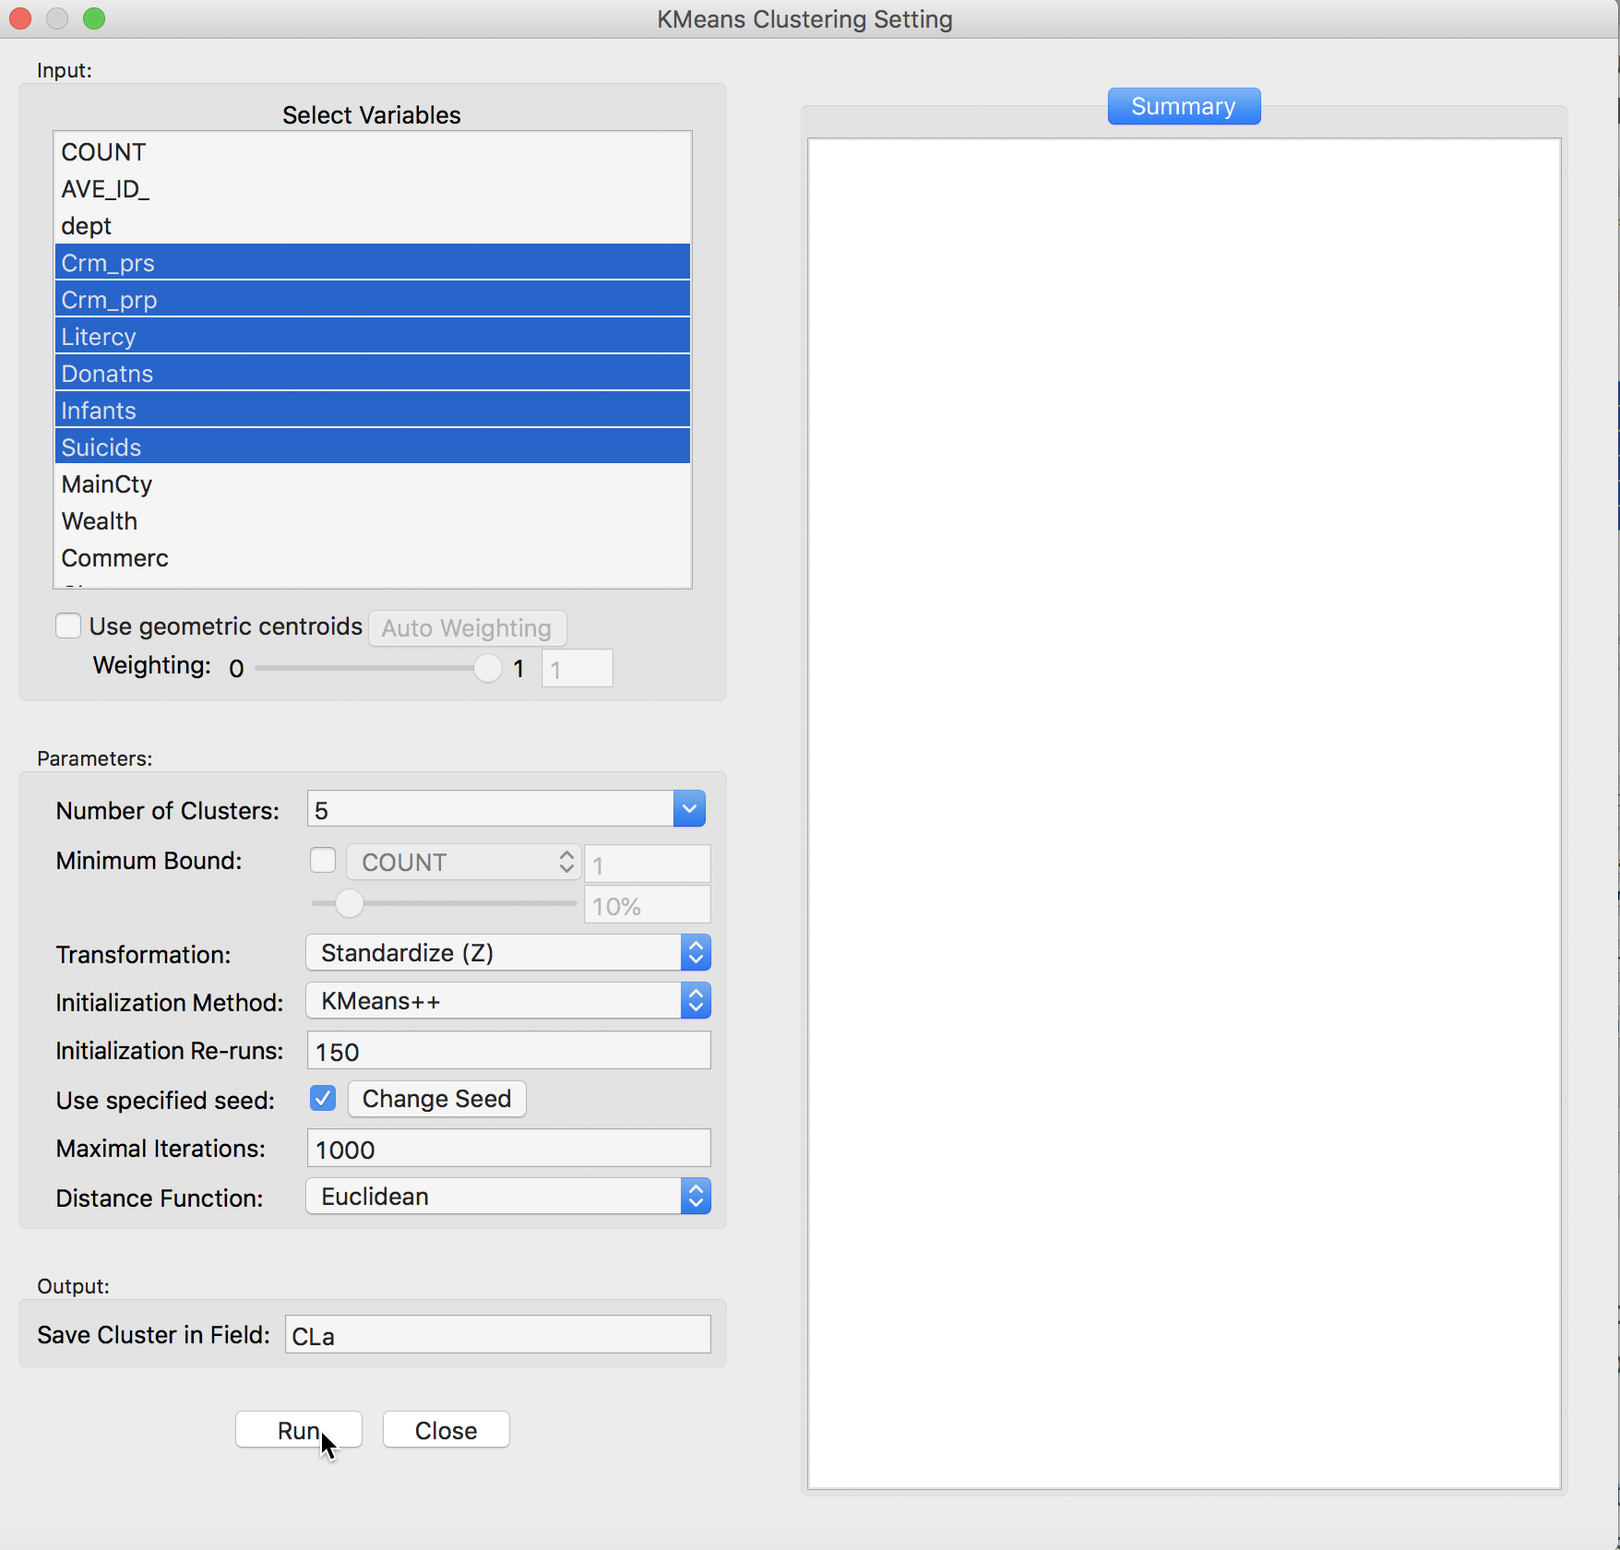
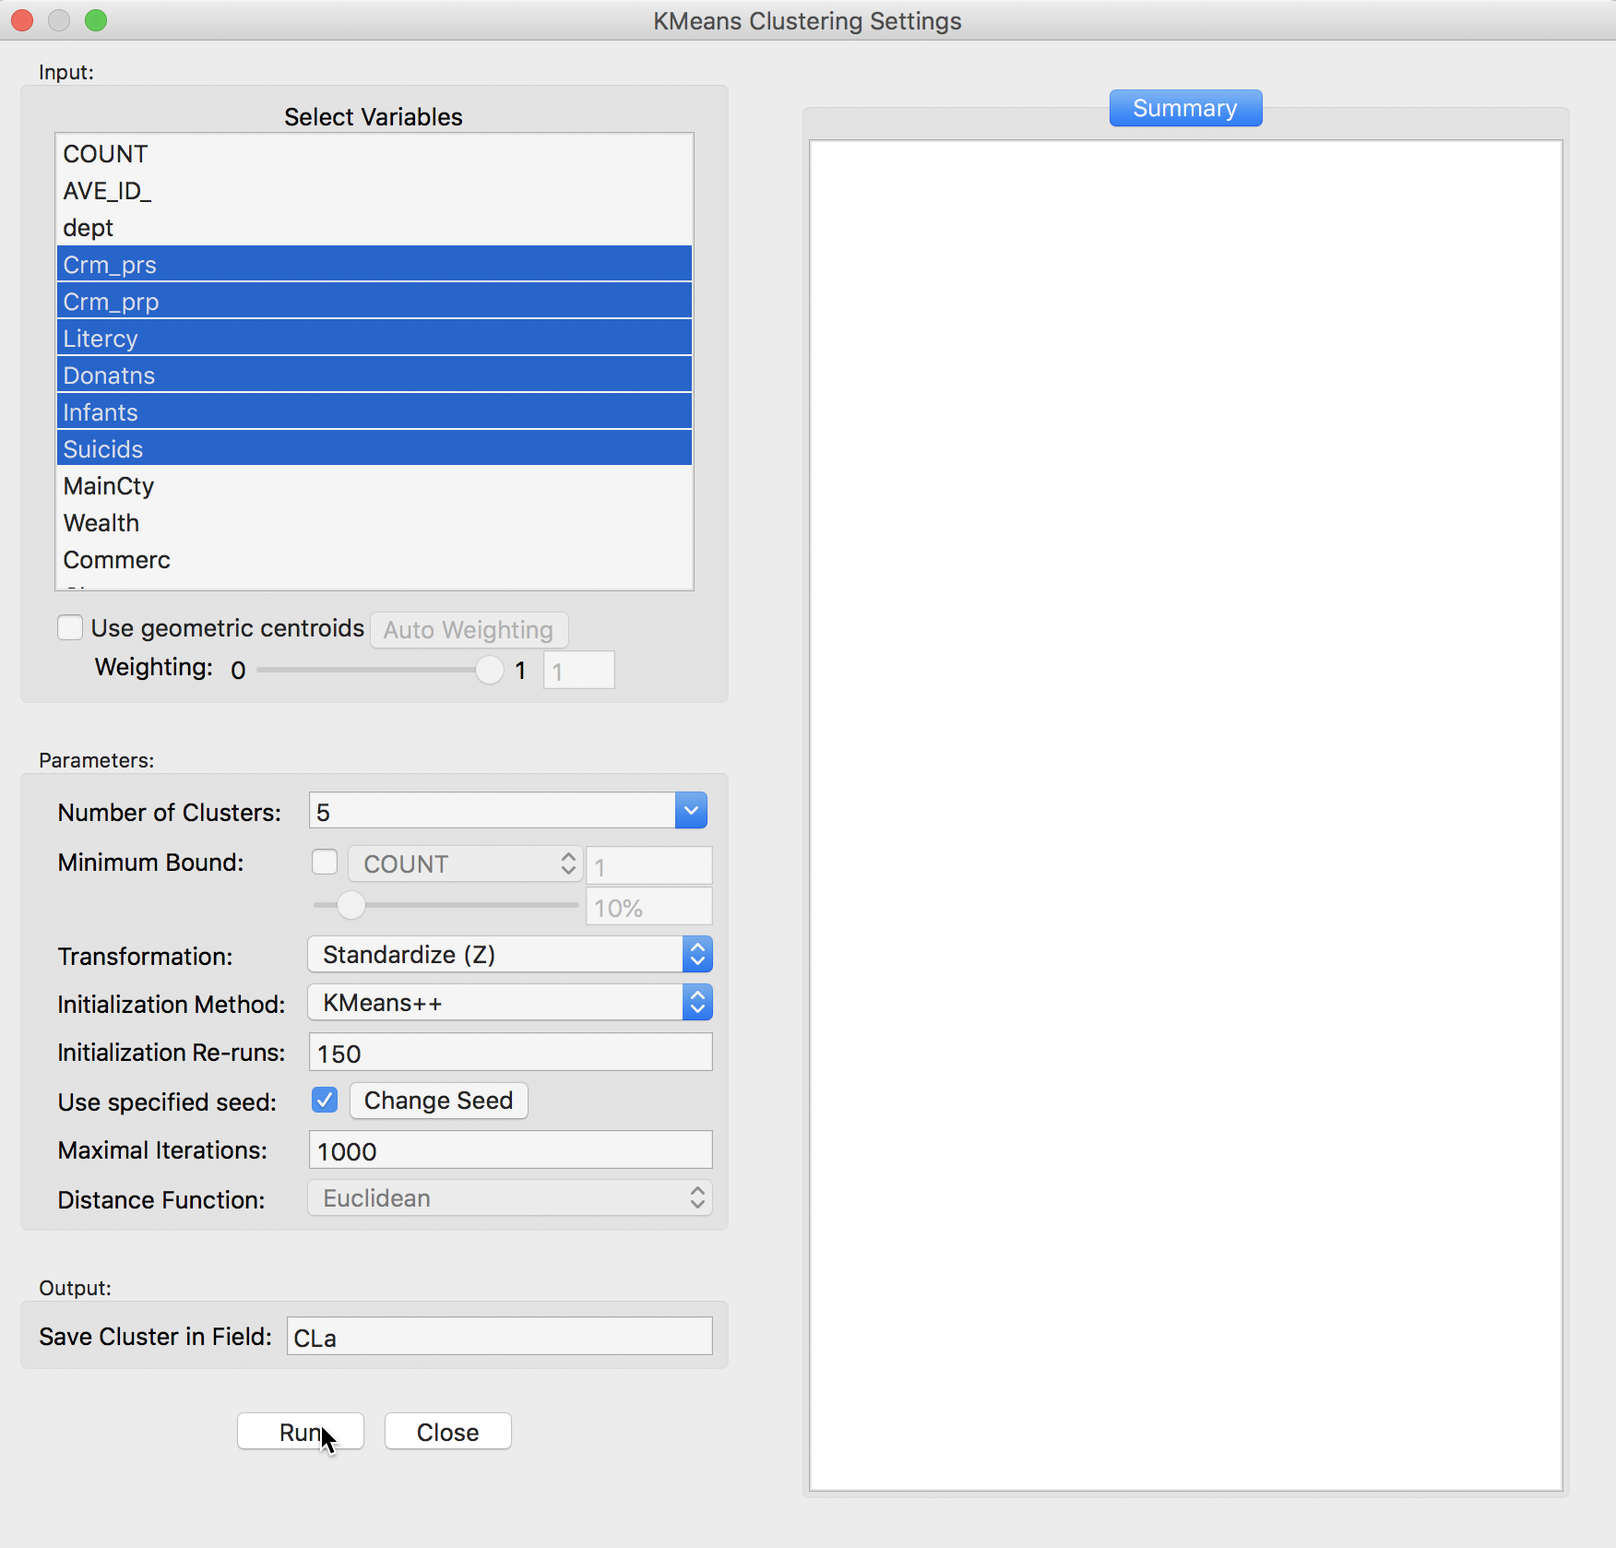
manhattan distance for hierarchical clustering

diff --git a/workbook/7b_clusters_2/lab7b.html b/workbook/7b_clusters_2/lab7b.html
@@ -116,7 +116,7 @@ if (window.hljs) {
 <h1 class="title toc-ignore">Cluster Analysis (2)</h1>
 <h3 class="subtitle"><em>Classic Clustering Methods</em></h3>
 <h4 class="author"><em>Luc Anselin<a href="#fn1" class="footnote-ref" id="fnref1"><sup>1</sup></a></em></h4>
-<h4 class="date"><em>Latest update 11/11/2018</em></h4>
+<h4 class="date"><em>Latest update 11/14/2018</em></h4>
 
 
 <div id="TOC">
@@ -137,7 +137,6 @@ if (window.hljs) {
 <li><a href="#options-and-sensitivity-analysis">Options and sensitivity analysis</a><ul>
 <li><a href="#changing-the-number-of-initial-runs-in-k-means">Changing the number of initial runs in k-means++</a></li>
 <li><a href="#random-initialization">Random initialization</a></li>
-<li><a href="#distance-metric">Distance metric</a></li>
 </ul></li>
 </ul></li>
 <li><a href="#hierarchical-clustering">Hierarchical Clustering</a><ul>
@@ -154,6 +153,7 @@ if (window.hljs) {
 <li><a href="#single-linkage">Single linkage</a></li>
 <li><a href="#complete-linkage">Complete linkage</a></li>
 <li><a href="#average-linkage">Average linkage</a></li>
+<li><a href="#distance-metric">Distance metric</a></li>
 </ul></li>
 </ul></li>
 <li><a href="#references">References</a></li>
@@ -301,7 +301,9 @@ deviational units,<a href="#fn3" class="footnote-ref" id="fnref3"><sup>3</sup></
 <p>The default algorithm is
 <strong>KMeans++</strong> with initialization re-runs set to 150 and maximal iterations to 1000.
 The <strong>seed</strong> is the global random number seed set for GeoDa, which can be changed by means of the
-<strong>Use specified seed</strong> option. Finally, the default <strong>Distance Function</strong> is <strong>Euclidean</strong>.</p>
+<strong>Use specified seed</strong> option. Finally, the default <strong>Distance Function</strong> is <strong>Euclidean</strong>.
+For k-means, this option cannot be changed, but for hierarchical clustering, there is also
+a <strong>Manhattan</strong> distance metric.</p>
 <p>The cluster classification will be
 saved in the variable specified in the <strong>Save Cluster in Field</strong> box. The default of <strong>CL</strong>
 is likely not very useful if several options will be explored. In our first example, we
@@ -454,37 +456,6 @@ as in Figure <a href="#fig:kppinitresults">13</a>. However, if we had run the ra
 much fewer runs (e.g., 10), the results would be inferior to what we obtained before.
 This highlights the effect of the starting values on the ultimate result.</p>
 </div>
-<div id="distance-metric" class="section level4 unnumbered">
-<h4>Distance metric</h4>
-<p>The default metric to gauge the distance between the center of each cluster is the
-Euclidean distance. In some context, it may be preferable to use absolute or Manhattan
-block distance, which penalizes larger distances less. This option can be selected
-through the <strong>Distance Function</strong> item in the dialog, as in Figure <a href="#fig:kmeansdist">15</a>.</p>
-<div class="figure" style="text-align: center"><span id="fig:kmeansdist"></span>
-<img src="pics7b/4_032_manhattan_distance.png" alt="Manhattan distance metric" width="40%" />
-<p class="caption">
-Figure 15: Manhattan distance metric
-</p>
-</div>
-<p>We run this with the default <strong>150</strong> initialization re-runs.
-The corresponding cluster map is shown in Figure <a href="#fig:mandistmap">16</a>, with the summary
-characteristics given in Figure <a href="#fig:mandistsummary">17</a>.</p>
-<div class="figure" style="text-align: center"><span id="fig:mandistmap"></span>
-<img src="pics7b/4_033_manhattan_map.png" alt="Manhattan distance cluster map" width="80%" />
-<p class="caption">
-Figure 16: Manhattan distance cluster map
-</p>
-</div>
-<div class="figure" style="text-align: center"><span id="fig:mandistsummary"></span>
-<img src="pics7b/4_034_manhattan_results.png" alt="Manhattan distance cluster characteristics" width="80%" />
-<p class="caption">
-Figure 17: Manhattan distance cluster characteristics
-</p>
-</div>
-<p>Relative to the Euclidean distance results, the ratio of between to total sum of squares
-is somewhat worse, at 0.455839. However, this is not a totally fair comparison, since the
-criterion for grouping is not based on a variance measure, but on an absolute difference.</p>
-</div>
 </div>
 </div>
 <div id="hierarchical-clustering" class="section level2 unnumbered">
@@ -523,21 +494,21 @@ linkage tends to result in many singletons and a few very large clusters.</p>
 <h3>Implementation</h3>
 <p>Hierarchical clustering is invoked in GeoDa from the same toolbar icon as k-means, shown
 in Figure <a href="#fig:kmeansicon">2</a>, by selecting the proper item from the drop down list. The desired clustering functionality can also be selected by using <strong>Clusters &gt; Hierarchical</strong> from the
-menu, as shown in Figure <a href="#fig:hierarchicalmenu">18</a>.</p>
+menu, as shown in Figure <a href="#fig:hierarchicalmenu">15</a>.</p>
 <div class="figure" style="text-align: center"><span id="fig:hierarchicalmenu"></span>
 <img src="pics7b/4_035_hierarchical.png" alt="Hierarchical clustering option" width="15%" />
 <p class="caption">
-Figure 18: Hierarchical clustering option
+Figure 15: Hierarchical clustering option
 </p>
 </div>
 <div id="variable-settings-panel-1" class="section level4 unnumbered">
 <h4>Variable Settings Panel</h4>
 <p>As before, the variables to be clustered are selected in the <strong>Variables Settings</strong> panel. We
-continue with the same six variables, shown in Figure <a href="#fig:hiervars">19</a>.</p>
+continue with the same six variables, shown in Figure <a href="#fig:hiervars">16</a>.</p>
 <div class="figure" style="text-align: center"><span id="fig:hiervars"></span>
 <img src="pics7b/5_048_hiervars.png" alt="K Means variable selection" width="40%" />
 <p class="caption">
-Figure 19: K Means variable selection
+Figure 16: K Means variable selection
 </p>
 </div>
 <p>The panel also allows one to set several options, such as the <strong>Transformation</strong> (default value
@@ -556,7 +527,7 @@ but this can be changed interactively (see below). Once a cut point is selected,
 cluster classification in the data table.</p>
 <div id="dendrogram" class="section level4 unnumbered">
 <h4>Dendrogram</h4>
-<p>With all options set to the default, the resulting dendrogram is as in Figure <a href="#fig:dendrogram5">20</a>.
+<p>With all options set to the default, the resulting dendrogram is as in Figure <a href="#fig:dendrogram5">17</a>.
 The dashed red line corresponds to a cut point that yields five clusters (the default). The
 dendrogram shows how individual observations are combined into groups of two, and subsequently
 into larger and larger groups, by combining pairs of clusters. The colors on the right hand
@@ -564,30 +535,30 @@ side match the colors of the observations in the cluster map (see next).</p>
 <div class="figure" style="text-align: center"><span id="fig:dendrogram5"></span>
 <img src="pics7b/5_049_dendrogram5.png" alt="Dendrogram (k=5)" width="60%" />
 <p class="caption">
-Figure 20: Dendrogram (k=5)
+Figure 17: Dendrogram (k=5)
 </p>
 </div>
-<p>The dashed line (cut point) can be moved interactively. For example, in Figure <a href="#fig:dendrogram8">21</a>,
+<p>The dashed line (cut point) can be moved interactively. For example, in Figure <a href="#fig:dendrogram8">18</a>,
 we <em>grabbed</em> the line at the top (it can equally be grabbed at the bottom), and moved
 it to the right to yield eight clusters. The corresponding colors are shown on the
 right hand bar.</p>
 <div class="figure" style="text-align: center"><span id="fig:dendrogram8"></span>
 <img src="pics7b/5_050_dendrogram8.png" alt="Dendrogram (k=8)" width="60%" />
 <p class="caption">
-Figure 21: Dendrogram (k=8)
+Figure 18: Dendrogram (k=8)
 </p>
 </div>
 </div>
 <div id="cluster-map" class="section level4 unnumbered">
 <h4>Cluster map</h4>
 <p>As mentioned before, once the dendrogram cut point is specified, clicking on <strong>Save/Show Map</strong>
-will generate the cluster map, shown in Figure <a href="#fig:hiermapW5">22</a>. Note how the colors for
+will generate the cluster map, shown in Figure <a href="#fig:hiermapW5">19</a>. Note how the colors for
 the map categories match the colors in the dendrogram. Also, the number of observations
 in each class also are the same between the groupings in the dendrogram and the cluster map.</p>
 <div class="figure" style="text-align: center"><span id="fig:hiermapW5"></span>
 <img src="pics7b/5_051_hierclusmapW5.png" alt="Hierarchical cluster map (Ward, k=5)" width="80%" />
 <p class="caption">
-Figure 22: Hierarchical cluster map (Ward, k=5)
+Figure 19: Hierarchical cluster map (Ward, k=5)
 </p>
 </div>
 </div>
@@ -603,7 +574,7 @@ relative to the k-means solution.</p>
 <div class="figure" style="text-align: center"><span id="fig:unnamed-chunk-1"></span>
 <img src="pics7b/5_052_hierW5summary.png" alt="Hierarchical cluster characteristics (Ward, k=5" width="80%" />
 <p class="caption">
-Figure 23: Hierarchical cluster characteristics (Ward, k=5
+Figure 20: Hierarchical cluster characteristics (Ward, k=5
 </p>
 </div>
 <p>The two k-means and hierarchical clustering approaches can also be used in conjunction with each other. For example, one could
@@ -613,39 +584,40 @@ or other partitioning method.</p>
 </div>
 <div id="options-and-sensitivity-analysis-1" class="section level3 unnumbered">
 <h3>Options and sensitivity analysis</h3>
-<p>The main option of interest in hierarchical clustering is the linkage <strong>Method</strong>. Other
-options, such as the <strong>Transformation</strong> and the <strong>Distance Function</strong> operate in the
+<p>The main option of interest in hierarchical clustering is the linkage <strong>Method</strong>. In
+addition, we can alter the <strong>Distance Function</strong> and the <strong>Transformation</strong>. The
+latter operates in the
 same fashion as for k-means.</p>
 <p>So far, we have used the default setting for <strong>Ward’s-linkage</strong>. We now consider each of the other linkage options in turn and illustrate the associated dendrogram, cluster map and cluster
 characteristics.</p>
 <div id="single-linkage" class="section level4 unnumbered">
 <h4>Single linkage</h4>
 <p>The linkage options are chosen from the <strong>Method</strong> item in the dialog. For example,
-in Figure <a href="#fig:singlelinkagemethod">24</a>, we select <strong>Single-linkage</strong>. The other
+in Figure <a href="#fig:singlelinkagemethod">21</a>, we select <strong>Single-linkage</strong>. The other
 options are chosen in the same way.</p>
 <div class="figure" style="text-align: center"><span id="fig:singlelinkagemethod"></span>
 <img src="pics7b/5_053_single_linkage.png" alt="Single linkage" width="40%" />
 <p class="caption">
-Figure 24: Single linkage
+Figure 21: Single linkage
 </p>
 </div>
 <p>The cluster results for single linkage are typically characterized by one or a few very
 large clusters and several singletons (one observation per cluster). In our example,
-this is illustrated by the dendrogram in Figure <a href="#fig:dendrosingle5">25</a>, and the
-corresponding cluster map in Figure <a href="#fig:single5map">26</a>. Four <em>clusters</em> consist of a
+this is illustrated by the dendrogram in Figure <a href="#fig:dendrosingle5">22</a>, and the
+corresponding cluster map in Figure <a href="#fig:single5map">23</a>. Four <em>clusters</em> consist of a
 single observation, with the main cluster collecting the 81 other observations. This
 situation is not remedied by moving the cut point such that more clusters result, since
 almost all of the additional clusters are singletons as well.</p>
 <div class="figure" style="text-align: center"><span id="fig:dendrosingle5"></span>
 <img src="pics7b/5_054_dendrogram_single.png" alt="Dendrogram single linkage (k=5)" width="60%" />
 <p class="caption">
-Figure 25: Dendrogram single linkage (k=5)
+Figure 22: Dendrogram single linkage (k=5)
 </p>
 </div>
 <div class="figure" style="text-align: center"><span id="fig:single5map"></span>
 <img src="pics7b/5_055_single_map.png" alt="Hierarchical cluster map (single linkage, k=5)" width="80%" />
 <p class="caption">
-Figure 26: Hierarchical cluster map (single linkage, k=5)
+Figure 23: Hierarchical cluster map (single linkage, k=5)
 </p>
 </div>
 <p>The characteristics of the single linkage hierarchical cluster are similarly dismal. Since
@@ -655,7 +627,7 @@ The resulting ratio of between to total sum of squares is only 0.214771.</p>
 <div class="figure" style="text-align: center"><span id="fig:unnamed-chunk-2"></span>
 <img src="pics7b/5_056_single_summary5.png" alt="Hierarchical cluster characteristics (single linkage, k=5)" width="80%" />
 <p class="caption">
-Figure 27: Hierarchical cluster characteristics (single linkage, k=5)
+Figure 24: Hierarchical cluster characteristics (single linkage, k=5)
 </p>
 </div>
 <p>In practice, in most situations, single linkage will not be a good choice, unless the
@@ -664,30 +636,30 @@ objective is to identify a lot of singletons.</p>
 <div id="complete-linkage" class="section level4 unnumbered">
 <h4>Complete linkage</h4>
 <p>The complete linkage method yields clusters that are similar in balance to Ward’s method.
-For example, in Figure <a href="#fig:dendrocomplete5">28</a>, the dendrogram is shown for our example,
+For example, in Figure <a href="#fig:dendrocomplete5">25</a>, the dendrogram is shown for our example,
 using a cut point with five clusters. The corresponding cluster map is given as
-Figure <a href="#fig:completemap">29</a>. The map is similar in structure to that obtained with Ward’s
-method (Figure <a href="#fig:hiermapW5">22</a>), but note that the largest category (at 39) is much larger
+Figure <a href="#fig:completemap">26</a>. The map is similar in structure to that obtained with Ward’s
+method (Figure <a href="#fig:hiermapW5">19</a>), but note that the largest category (at 39) is much larger
 than the largest for Ward (25).</p>
 <div class="figure" style="text-align: center"><span id="fig:dendrocomplete5"></span>
 <img src="pics7b/5_057_dendro_complete5.png" alt="Dendrogram complete linkage (k=5)" width="60%" />
 <p class="caption">
-Figure 28: Dendrogram complete linkage (k=5)
+Figure 25: Dendrogram complete linkage (k=5)
 </p>
 </div>
 <div class="figure" style="text-align: center"><span id="fig:completemap"></span>
 <img src="pics7b/5_058_complete_map.png" alt="Hierarchical cluster map (complete linkage, k=5)" width="80%" />
 <p class="caption">
-Figure 29: Hierarchical cluster map (complete linkage, k=5)
+Figure 26: Hierarchical cluster map (complete linkage, k=5)
 </p>
 </div>
-<p>In terms of the cluster characteristics, shown in Figure <a href="#fig:completesummary">30</a>, we note
+<p>In terms of the cluster characteristics, shown in Figure <a href="#fig:completesummary">27</a>, we note
 a slight deterioration relative to Ward’s results, with the ratio of between to total sum
 of squares at 0.423101 (but much better than single linkage).</p>
 <div class="figure" style="text-align: center"><span id="fig:completesummary"></span>
 <img src="pics7b/5_059_complete_summary.png" alt="Hierarchical cluster characteristics (complete linkage, k=5)" width="80%" />
 <p class="caption">
-Figure 30: Hierarchical cluster characteristics (complete linkage, k=5)
+Figure 27: Hierarchical cluster characteristics (complete linkage, k=5)
 </p>
 </div>
 </div>
@@ -695,29 +667,60 @@ Figure 30: Hierarchical cluster characteristics (complete linkage, k=5)
 <h4>Average linkage</h4>
 <p>Finally, the average linkage criterion suffers from some of the same problems as single
 linkage, although it yields slightly better results. The dendrogram and cluster map
-are shown in Figures <a href="#fig:dendroavg5">31</a> and <a href="#fig:avgmap">32</a>.</p>
+are shown in Figures <a href="#fig:dendroavg5">28</a> and <a href="#fig:avgmap">29</a>.</p>
 <div class="figure" style="text-align: center"><span id="fig:dendroavg5"></span>
 <img src="pics7b/5_060_dendro_average.png" alt="Dendrogram average linkage (k=5)" width="60%" />
 <p class="caption">
-Figure 31: Dendrogram average linkage (k=5)
+Figure 28: Dendrogram average linkage (k=5)
 </p>
 </div>
 <div class="figure" style="text-align: center"><span id="fig:avgmap"></span>
 <img src="pics7b/5_061_average_map.png" alt="Hierarchical cluster map (average linkage, k=5)" width="80%" />
 <p class="caption">
-Figure 32: Hierarchical cluster map (average linkage, k=5)
+Figure 29: Hierarchical cluster map (average linkage, k=5)
 </p>
 </div>
-<p>As given in Figure <a href="#fig:avgsummary">33</a>, the summary characteristics are slighly better
+<p>As given in Figure <a href="#fig:avgsummary">30</a>, the summary characteristics are slighly better
 than in the single linkage case, with only two singletons. However, the overall ratio of
 between to total sum of squares is still much worse than for the other two methods,
 at 0.296838.</p>
 <div class="figure" style="text-align: center"><span id="fig:avgsummary"></span>
 <img src="pics7b/5_062_average_summary.png" alt="Hierarchical cluster characteristics (average linkage, k=5)" width="80%" />
 <p class="caption">
-Figure 33: Hierarchical cluster characteristics (average linkage, k=5)
+Figure 30: Hierarchical cluster characteristics (average linkage, k=5)
 </p>
 </div>
+</div>
+<div id="distance-metric" class="section level4 unnumbered">
+<h4>Distance metric</h4>
+<p>The default metric to gauge the distance between the center of each cluster is the
+Euclidean distance. In some context, it may be preferable to use absolute or Manhattan
+block distance, which penalizes larger distances less. This option can be selected
+through the <strong>Distance Function</strong> item in the dialog, as in Figure <a href="#fig:kmeansdist">31</a>.</p>
+<div class="figure" style="text-align: center"><span id="fig:kmeansdist"></span>
+<img src="pics7b/6_065_hier_manhattan.png" alt="Manhattan distance metric" width="40%" />
+<p class="caption">
+Figure 31: Manhattan distance metric
+</p>
+</div>
+<p>We run this for the same variables using Ward’s linkage and a cut point yielding 5 clusters.
+The corresponding cluster map is shown in Figure <a href="#fig:mandistmap">32</a>, with the summary
+characteristics given in Figure <a href="#fig:mandistsummary">33</a>.</p>
+<div class="figure" style="text-align: center"><span id="fig:mandistmap"></span>
+<img src="pics7b/6_066_h_man_map.png" alt="Manhattan distance cluster map" width="80%" />
+<p class="caption">
+Figure 32: Manhattan distance cluster map
+</p>
+</div>
+<div class="figure" style="text-align: center"><span id="fig:mandistsummary"></span>
+<img src="pics7b/6_067_h_man_summary.png" alt="Manhattan distance cluster characteristics" width="80%" />
+<p class="caption">
+Figure 33: Manhattan distance cluster characteristics
+</p>
+</div>
+<p>Relative to the Euclidean distance results, the ratio of between to total sum of squares
+is somewhat worse, at 0.44549 (compared to 0.482044). However, this is not a totally fair comparison, since the
+criterion for grouping is not based on a variance measure, but on an absolute difference.</p>
 <p><br></p>
 </div>
 </div>
